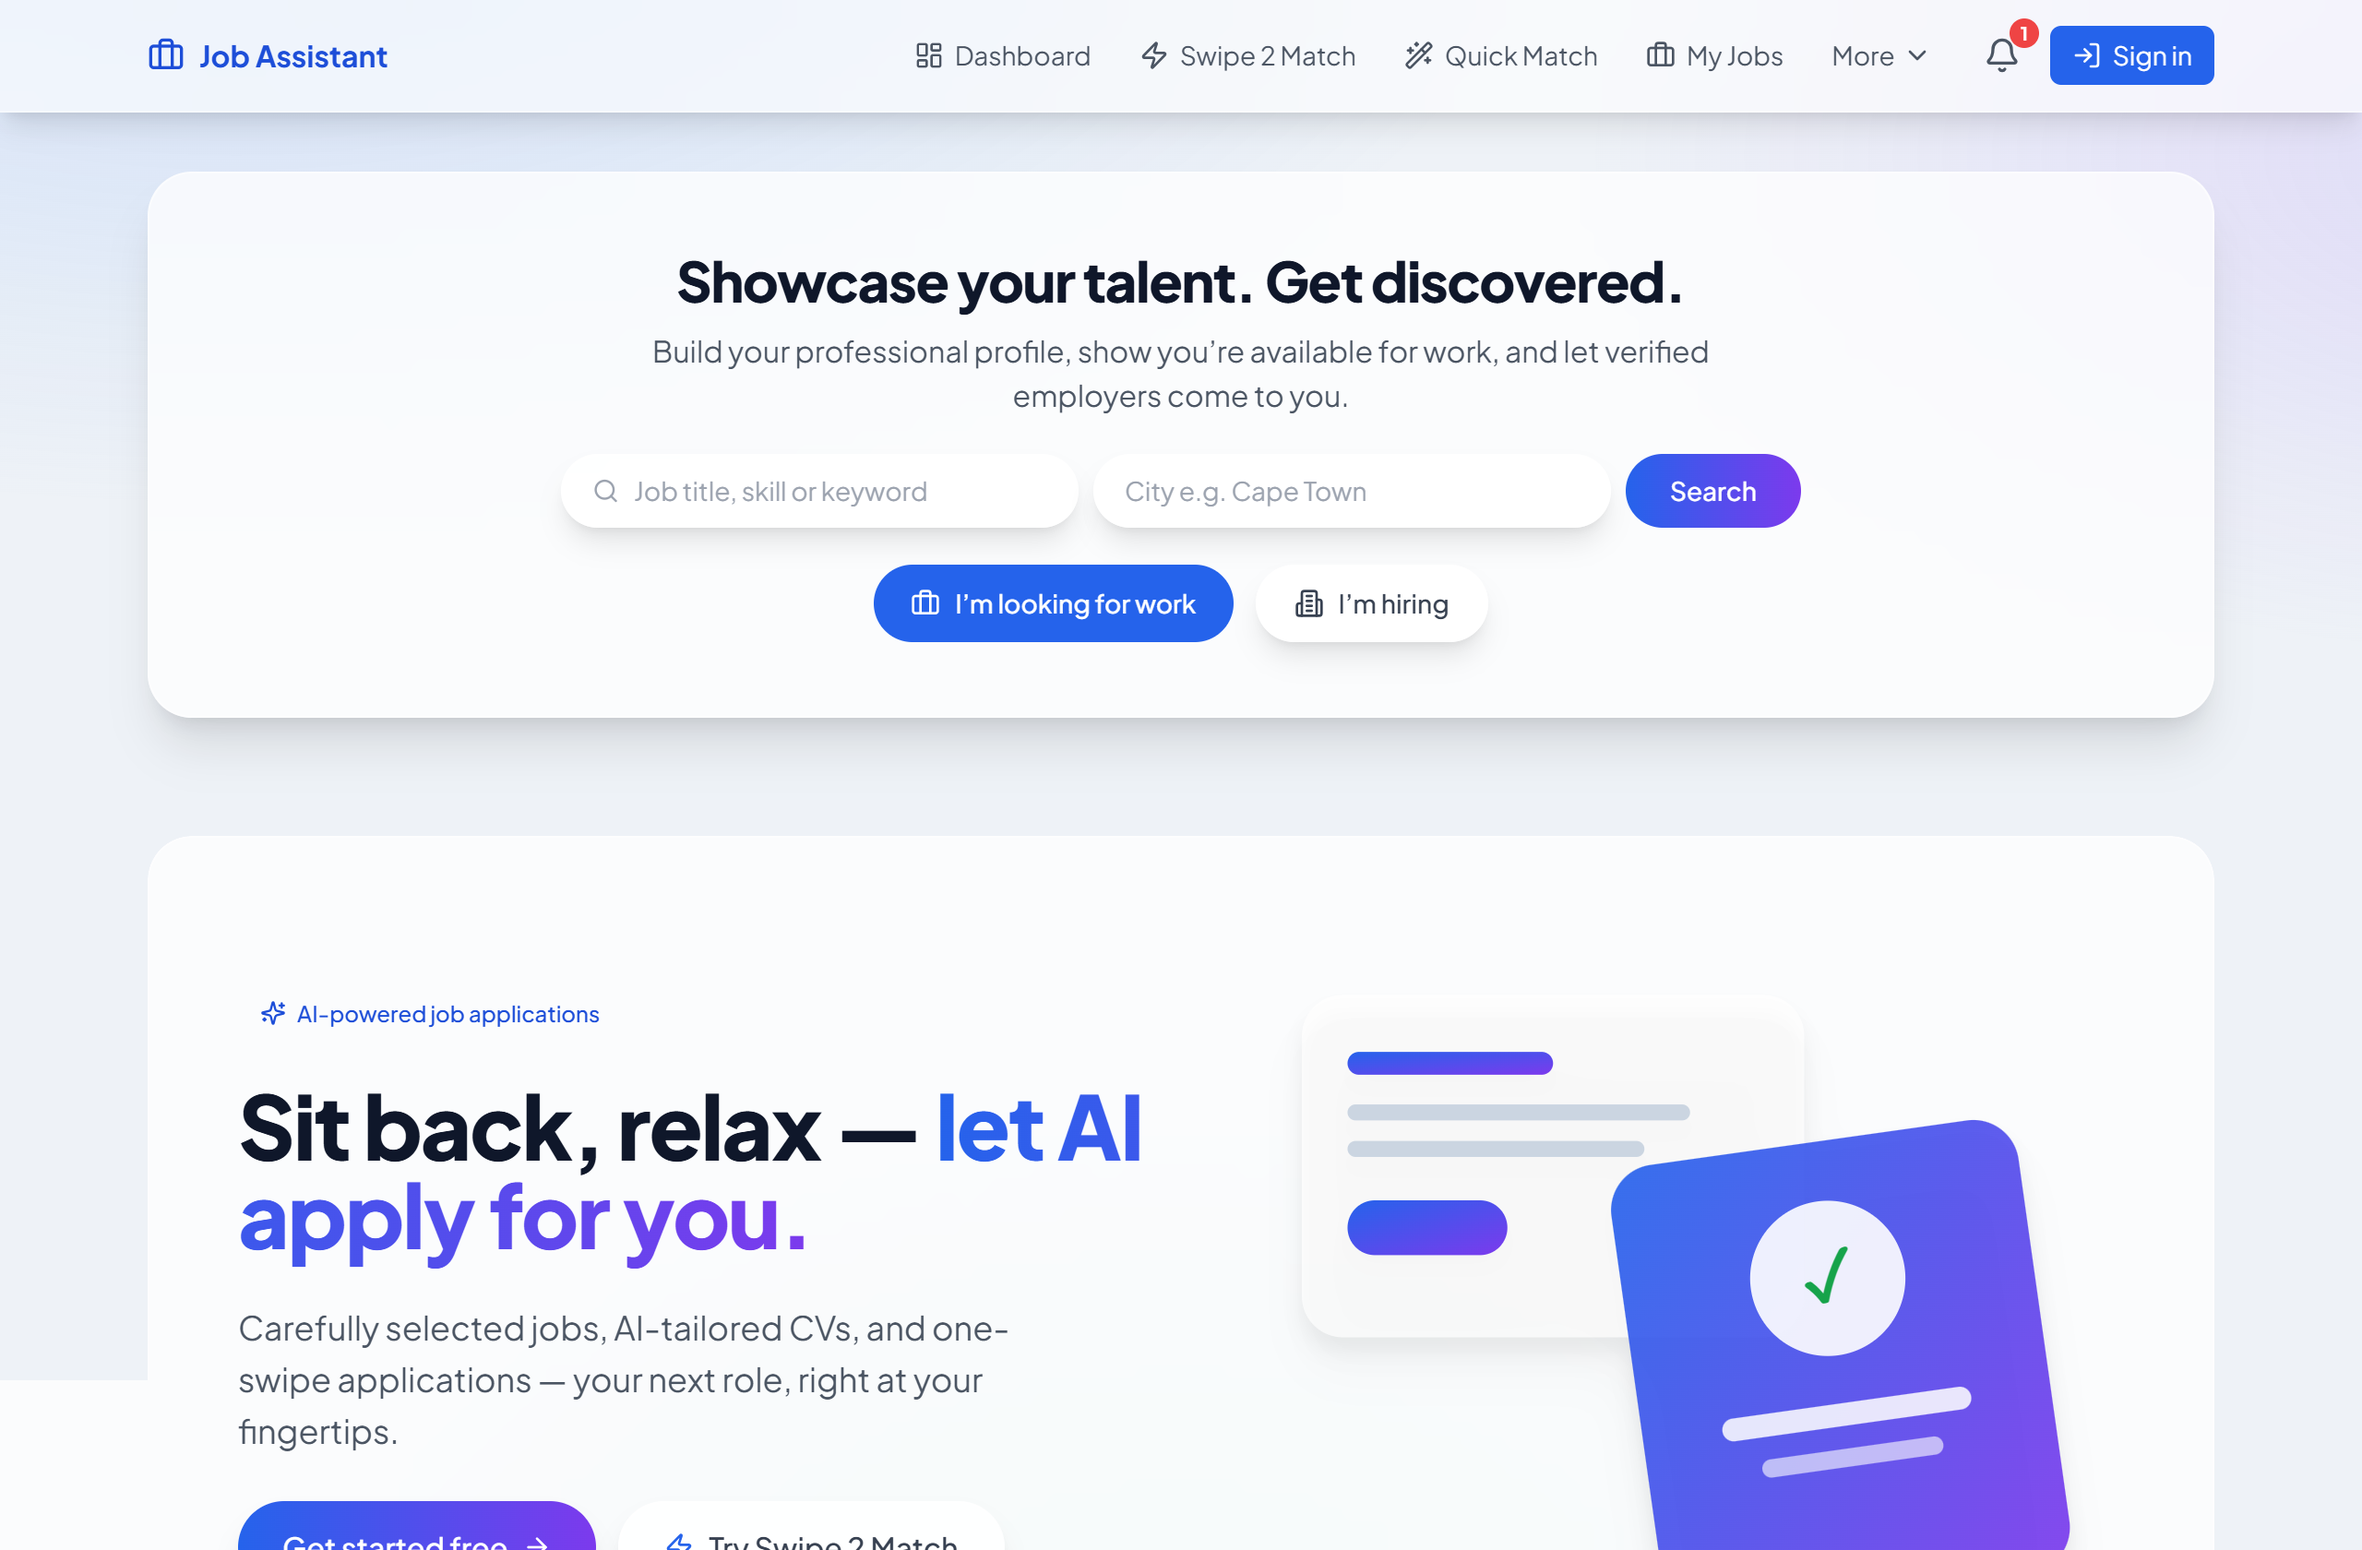
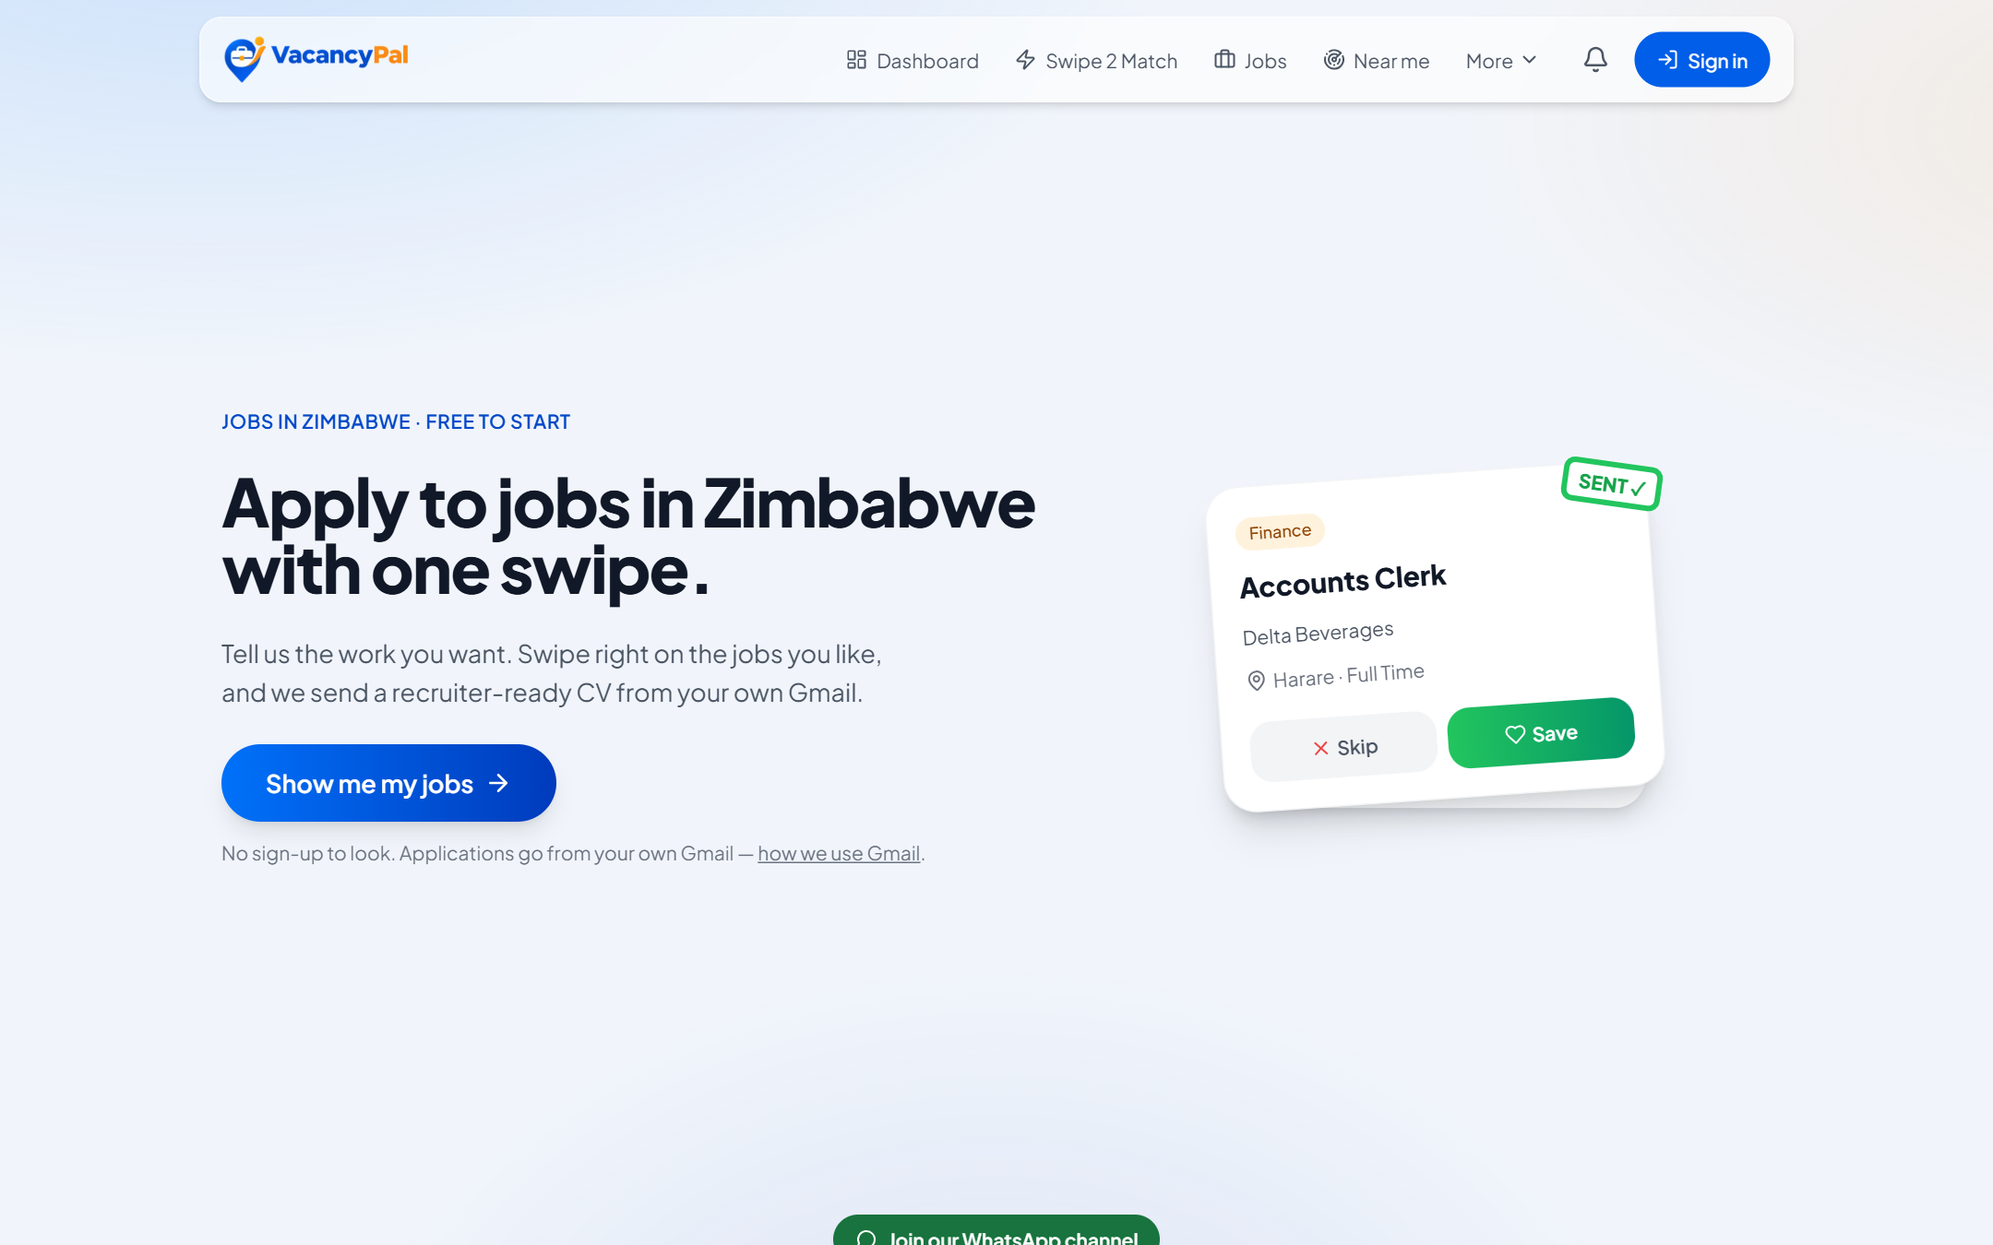
Add profile photo + support link; new/updated projects
- Hero: real profile photo and a "Support my work" link
  (support-ngonie.vercel.app)
- New project: Hub263 (Zimbabwe startup-ecosystem connector, live)
- Rename Job Assistant -> VacancyPal with live demo vacancypal.co.zw +
  fresh screenshots (landing + jobs board); mark repo private
- Folio: add live demo folio-c4e.pages.dev

diff --git a/data/projects.js b/data/projects.js
@@ -117,17 +117,17 @@ const getProjects = () => {
     },
     {
         id: 'job-assistant',
-        title: 'Job Assistant',
+        title: 'VacancyPal',
         image: '/assets/projects/job-assistant/01.png',
-        images: gallery('job-assistant', ['png','png','png','png','png']),
+        images: gallery('job-assistant', ['png','png']),
         link: '/projects/job-assistant',
         tech: 'AI / Next.js',
         techMore: 'Next.js | Cloudflare Worker',
-        liveDemo: 'https://job-assistant-frontend-tau.vercel.app/',
-        gitHubLink: 'https://github.com/Ngoni-Sama/job-assistant',
-        desc: 'An AI-powered job-matching platform that pairs candidates with roles through a swipe-to-match flow, nearby jobs and a built-in CV builder. Structured as a monorepo combining a Cloudflare Worker API with a Next.js 16 front end.',
+        liveDemo: 'https://vacancypal.co.zw',
+        gitHubLink: '#', // private repo
+        desc: 'An AI-powered job-matching platform (formerly Job Assistant) that pairs candidates with roles through a swipe-to-match flow, nearby jobs, a built-in CV builder and AI Apply. A Cloudflare Worker API with a Next.js 16 front end. Live at vacancypal.co.zw and on the Google Play Store.',
         techStack: [
-            'Next.js 16', 'Cloudflare Workers', 'AI', 'TypeScript'
+            'Next.js 16', 'Cloudflare Workers', 'AI', 'TypeScript', 'Pesepay'
         ]
     },
     {
@@ -273,9 +273,9 @@ const getProjects = () => {
         link: '/projects/folio',
         tech: 'React',
         techMore: 'React | Vite | Turborepo',
-        liveDemo: '#', // TODO: add live URL (Cloudflare Pages)
+        liveDemo: 'https://folio-c4e.pages.dev',
         gitHubLink: '#', // TODO: add repo URL
-        desc: 'A DeepSeek-inspired, tile-based reader for public-domain books. A pnpm + Turborepo monorepo with a framework-agnostic core (Project Gutenberg / gutendex and Open Library adapters, parallel search with dedupe, CFI progress and Markdown-notes helpers) and a React 18 + Vite web app: a deduped tile-grid search, an EPUB reader with themes, font sizing, highlights and note export, plus Library and History — all persisted in IndexedDB.',
+        desc: 'A DeepSeek-inspired, tile-based reader for public-domain books. A pnpm + Turborepo monorepo with a framework-agnostic core (Project Gutenberg OPDS and Open Library adapters, parallel search with dedupe, CFI progress and Markdown-notes helpers) and a React 18 + Vite web app: a deduped tile-grid search, an EPUB reader with themes, font sizing, highlights and note export, plus Library and History — all persisted in IndexedDB. Live on Cloudflare Pages.',
         techStack: [
             'React 18', 'Vite', 'Turborepo', 'Zustand', 'TanStack Query', 'epub.js', 'Cloudflare Pages'
         ]
@@ -293,6 +293,21 @@ const getProjects = () => {
         desc: 'An offline Android kiosk menu app for the Coconut Lounge restaurant, running on 40 tablets in device-owner kiosk mode. Built with Expo SDK 57 and a custom Reanimated 3D page-turn (finger-follow, spring-back and flick), a glassmorphism UI, a data-driven responsive menu that reflows between portrait and landscape, and offline code-book activation with lockout backoff.',
         techStack: [
             'Expo SDK 57', 'React Native', 'Reanimated 4', 'TypeScript', 'expo-secure-store'
+        ]
+    },
+    {
+        id: 'hub263',
+        title: 'Hub263',
+        image: '/assets/projects/hub263/01.png',
+        images: gallery('hub263', ['png']),
+        link: '/projects/hub263',
+        tech: 'Cloudflare',
+        techMore: 'Cloudflare Worker | WebRTC',
+        liveDemo: 'https://hub263.ma360-ngoni.workers.dev',
+        gitHubLink: '#', // private repo
+        desc: 'A connector for Zimbabwe’s startup ecosystem — discover founders, investors, hubs and events, and connect directly. Built on a Cloudflare Worker with D1 and Durable Objects behind a React glassmorphism SPA, with in-app voice/video calling over WebRTC and Cloudflare TURN.',
+        techStack: [
+            'Cloudflare Workers', 'D1', 'Durable Objects', 'React', 'WebRTC', 'Cloudflare TURN'
         ]
     }
   ]

diff --git a/components/Main.jsx b/components/Main.jsx
@@ -1,6 +1,6 @@
 import Link from 'next/link';
 import React from 'react';
-import { AiOutlineMail } from 'react-icons/ai';
+import { AiOutlineMail, AiFillHeart } from 'react-icons/ai';
 import { BsFillPersonLinesFill } from 'react-icons/bs';
 import { FaGithub, FaLinkedinIn } from 'react-icons/fa';
 import EditableImage from './EditableImage';
@@ -13,9 +13,9 @@ const Main = () => {
           <div className='flex justify-center pb-2'>
             <EditableImage
               id='profile'
-              src='/assets/about.jpg'
+              src='/assets/profile.png'
               alt='Ngoni Maphosa'
-              className='w-[140px] h-[140px] rounded-full overflow-hidden shadow-lg shadow-gray-400'
+              className='w-[160px] h-[160px] rounded-full overflow-hidden shadow-lg shadow-gray-400'
               imgClassName='w-full h-full object-cover'
             />
           </div>
@@ -30,7 +30,7 @@ const Main = () => {
             I build web, mobile and AI-powered products end to end — from
             Next.js front ends to Cloudflare and Node back ends.
           </p>
-          <div className='flex items-center justify-between max-w-[330px] m-auto py-4'>
+          <div className='flex items-center justify-between max-w-[430px] m-auto py-4'>
             <a
               href='https://www.linkedin.com/in/ngonidzashe-maphosa-737078138/'
               target='_blank'
@@ -38,6 +38,16 @@ const Main = () => {
             >
               <div className='rounded-full shadow-lg shadow-gray-400 p-6 cursor-pointer hover:scale-110 ease-in duration-300'>
                 <FaLinkedinIn />
+              </div>
+            </a>
+            <a
+              href='https://support-ngonie.vercel.app/'
+              target='_blank'
+              rel='noreferrer'
+              title='Support my work'
+            >
+              <div className='rounded-full shadow-lg shadow-gray-400 p-6 cursor-pointer hover:scale-110 ease-in duration-300 text-pink-600'>
+                <AiFillHeart />
               </div>
             </a>
             <a
